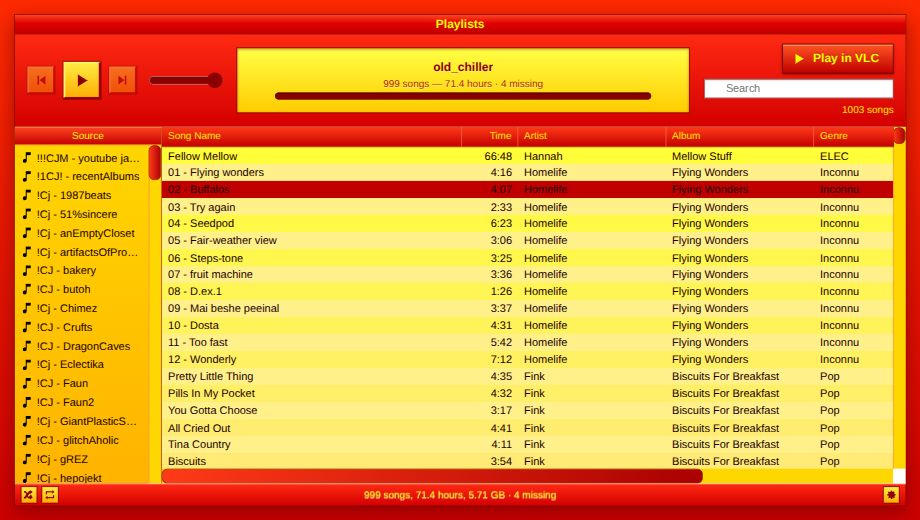
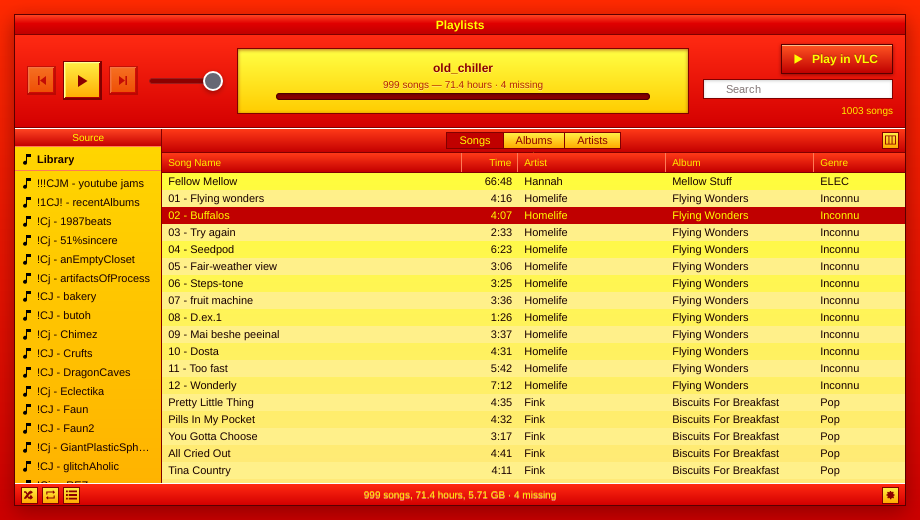
docs(readme): add view screenshots and tighten the copy
The quick start now names the four config paths and drops the pip step,
because the code uses only the standard library. The match rate names
what it counts, and claims the code does not keep are cut. New shots
show the album, artist and column-browser views; the skin shots are
re-taken with the readable selected row. terms.md records the term
decisions for the copy tools.

Claude-Session: https://claude.ai/code/session_011VZN7qfrSQLcQrj2xuZfXh

diff --git a/README.md b/README.md
@@ -9,58 +9,83 @@ local page to browse and play them in.
 
 ## Quick start
 
+Needs Python 3.11+ and ffmpeg. Nothing to install from pip.
+
 ```bash
-python -m venv .venv && source .venv/bin/activate && pip install -e ".[dev]"
-# drop your library export in data/, set two paths in config.toml
+# copy your iTunes Music Library.xml into data/, then set the paths in config.toml
 python make_playlists.py && python build_browser.py && python serve.py
 ```
 
+`config.toml` wants four paths: the music folder your XML recorded, where that
+music lives now, and where to write the playlists and the page.
+
 ## Why
 
-Move your music to a new drive and every path in that XML goes stale, so the
-audio sits on disk while your playlists point at nothing. Often they're the only
-record of how you organised any of it.
+Move your music to a new drive and every path in the library XML that iTunes
+exports goes stale. The audio sits on disk while your playlists point at nothing.
+Often they're the only record of how you organised any of it.
 
-Most exporters do a prefix swap and call it done. This one also hunts by
-filename across your library, and settles ties by comparing file size against
-what iTunes recorded. On the one library it was built against, that took 95.9%
-up to 98.4%. Those 341 entries would otherwise have become dead links, quietly.
+Swapping the old music folder for the new one at the front of each path finds
+most files. Not the ones that moved to a different folder. So this one also
+looks each filename up across your whole library, and when several files share a
+name, it takes the one whose size matches what iTunes recorded. A tie it can't
+break counts as missing.
 
-What it can't find, it shows you. Greyed out, with the reason.
+On the one library it was built against, 13,418 playlist entries, the swap alone
+found 95.9%. The search took that to 98.4%. Those 341 entries would otherwise
+have become dead links, quietly.
+
+What it can't find, it shows you: greyed out, with the reason in a Found column
+you can switch on.
 
 ## What you get
 
-- **Plain `.m3u8` files.** Tested with VLC; any player that reads m3u8 should
-  take them. If that's all you wanted, stop after the first command.
-- **A browsable page.** The whole music library plus every playlist. Sort,
-  search, 29 library fields as columns, and a Genre | Artist | Album browser.
+- **Plain `.m3u8` playlist files.** Tested with VLC; any player that reads m3u8
+  should take them. If that's all you wanted, stop after `make_playlists.py`.
+- **A browsable page.** Your whole music library and hand-made playlists, with
+  sorting, search, 29 library fields as columns, and a column browser.
 - **Album and artist views**, iTunes 11 style, with covers taken from the
-  artwork embedded in your files (needs `ffmpeg`).
-- **Playback in the browser**, with Up Next, media keys and keyboard control, or
-  hand the current view to VLC in the order shown.
-- **Eight skins**, because why not.
+  artwork embedded in your files.
+- **Playback in the browser**, with Up Next, media keys and keyboard control. Or
+  send what's on screen to VLC, in the order shown.
+
+## Songs, albums, artists
+
+![Albums view: a grid of covers, with Moon Safari opened in place under its row](docs/albums.png)
+
+Click a cover and its tracks open under its row, tinted from the art.
+Double-click a track to play it.
+
+![Artists view: the artist list, and the chosen artist's albums with their tracks](docs/artists.png)
+
+Artists, grouped by Album Artist. Compilations all sit under one entry,
+Compilations, so each guest artist on one doesn't get an entry of their own.
+
+![The column browser: Genre, Artist and Album panes above the track list](docs/browser.png)
+
+Songs, with the Genre | Artist | Album browser on (Ctrl+B). Solid stars are
+ratings you set. Hollow ones are what iTunes worked out from the album's rating.
 
 ## Eight skins
 
 ![Cycling through Greenwood, Concrete, Chelan, Boring and Azalea](docs/skins.gif)
 
-Three iTunes eras, three Windows eras, one Hot Dog Stand, and one 2006 band
-profile. Pick from the gear in the corner.
+Three iTunes eras, three Windows eras, Windows 3.1's Hot Dog Stand colour
+scheme, and a 2006 MySpace band profile. Pick from the gear in the corner.
 
 They're named for real towns in British Columbia, Washington and Oregon, which
 is how a Windows 3.1 tribute ends up called Concrete. Boring is a real town too.
 It's next to Damascus.
 
-Every skin is built from colour values written from scratch. No Apple or
-Microsoft artwork, icons or fonts are copied or shipped.
+Every skin is built from colour values written from scratch.
 
 ## Status
 
-**0.1.0 alpha.** This has worked exactly once, on one large library, on Linux.
-There are 57 tests, but nobody has yet pointed it at a library other than the one
+**0.1.0 alpha.** It has only ever run against one large library, on Linux.
+There are 70 tests, but nobody has yet pointed it at a library other than the one
 it was written for. That's the whole body of evidence.
 
-If yours came off Windows, expect the path remapping to need a nudge. It's the
+If yours came off Windows, the path remapping is untested there, and it's the
 part most likely to break. Worth an issue if it does.
 
 ---

diff --git a/.claude/skills/copy/plain/terms.md b/.claude/skills/copy/plain/terms.md
@@ -1,0 +1,22 @@
+## Domain terms
+
+## Decided - keep and gloss
+- XML: the library file iTunes exports, iTunes Music Library.xml
+- prefix: the music folder at the start of each recorded path
+- m3u8: the playlist file format
+
+## Decided - replace
+
+## Decided - fine as-is
+- artist
+- MIT
+- VLC
+- chelan
+- greenwood
+- ctrl
+- ffmpeg
+- filename
+- itunes
+- library
+- config
+- toml
